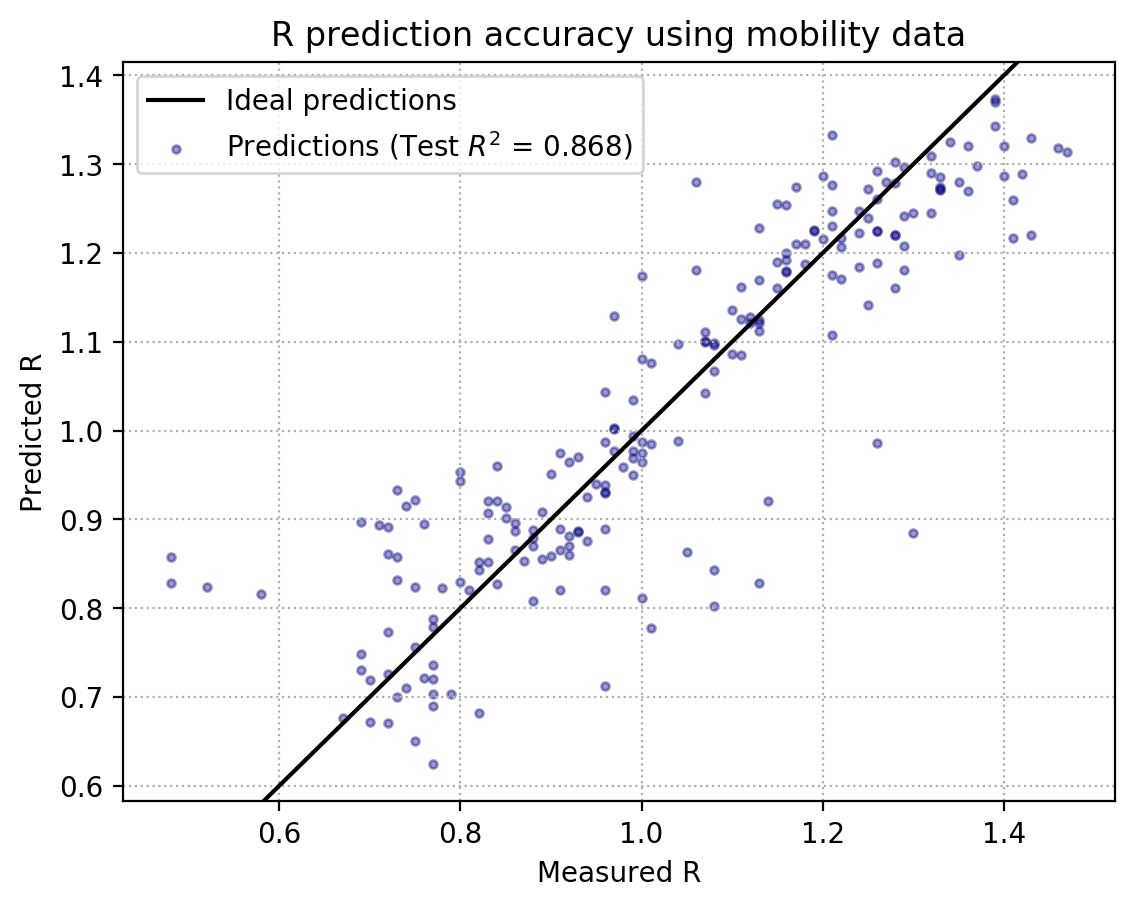
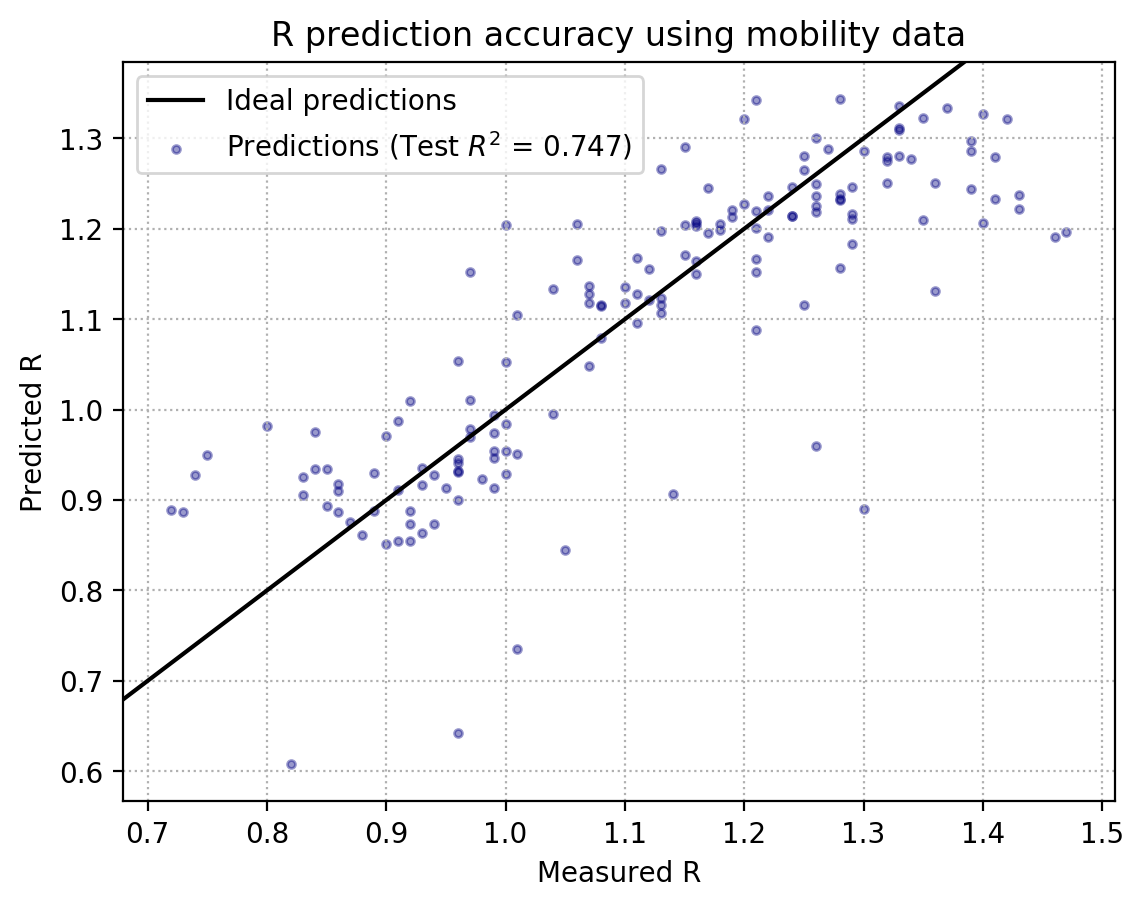
Turns out that the questionnaire response data does not improve the predictions of R by one bit. Leaving the code for loading the data in there for now, but it is not used.

diff --git a/model_coronavirus_supression.py b/model_coronavirus_supression.py
@@ -896,6 +896,12 @@ def load_weather_data(smooth = False):
 	return df_weather
 
 def load_behaviour_data(startdate, enddate):
+	"""
+	Load data on questionnaires about how much people follow the COVID-19 rules.
+	https://data.rivm.nl/geonetwork/srv/dut/catalog.search#/metadata/8a72d78a-fcf8-4882-b0ab-cd594961a267?tab=relations
+
+	startdate, enddate as np.datetime64.
+	"""
 	behaviour_url = 'https://data.rivm.nl/covid-19/COVID-19_gedrag.csv'
 	behaviour_fname = 'COVID-19_gedrag.csv'
 
@@ -965,18 +971,18 @@ def load_behaviour_data(startdate, enddate):
 	### now we need to perform imputation, filling in the blanks before the
 	### survey starts
 	#extrapolate at the start
-	if np.datetime64(startdate) < np.datetime64(df_behaviour_incols.index[0]):
+	if startdate < np.datetime64(df_behaviour_incols.index[0]):
 		df_sub = pd.DataFrame()
 		for col in df_behaviour_incols.columns:
-			df_sub[col] = extrapolate_dataframe(df_behaviour_incols[[col]], col, np.datetime64(startdate), base_period = 7)[col]
+			df_sub[col] = extrapolate_dataframe(df_behaviour_incols[[col]], col, startdate, base_period = 7)[col]
 
 		df_behaviour_incols = df_sub
 
 	#extrapolate at the end
-	if np.datetime64(enddate) > np.datetime64(df_behaviour_incols.index[0]):
+	if enddate > np.datetime64(df_behaviour_incols.index[0]):
 		df_sub = pd.DataFrame()
 		for col in df_behaviour_incols.columns:
-			df_sub[col] = extrapolate_dataframe(df_behaviour_incols[[col]], col, np.datetime64(enddate), base_period = 7)[col]
+			df_sub[col] = extrapolate_dataframe(df_behaviour_incols[[col]], col, enddate, base_period = 7)[col]
 
 		df_behaviour_incols = df_sub
 
@@ -1641,6 +1647,7 @@ def estimate_recent_R(enddate_train = '2020-10-25'):
 	"""
 	print(f'WARNING: end date for R training set is {enddate_train}')
 
+	startdate_train = '2020-06-01'
 	startdate_pred = '2020-07-01'
 
 	df_prevalence, df_R = load_prevalence_R0_data()
@@ -1662,8 +1669,15 @@ def estimate_recent_R(enddate_train = '2020-10-25'):
 	df_mob_R = df_mob_R.join(df_response, how = 'inner')
 	df_mob_R = df_mob_R.join(df_weather, how = 'inner')
 
+	#only now load the behaviour data as we have to extrapolate this anyhow
+	#and need to get the extrapolation edges
+	# df_behaviour = load_behaviour_data(np.datetime64(startdate_train), np.datetime64(df_mob_R.index[-1]))
+	# print(df_behaviour.columns)
+	# #and also merge this
+	# df_mob_R = df_mob_R.join(df_behaviour, how = 'inner')
+
 	#select date range
-	mask = (df_mob_R.index > '2020-04-01') & (df_mob_R.index <= enddate_train)
+	mask = (df_mob_R.index > startdate_train) & (df_mob_R.index <= enddate_train)
 	df_train = df_mob_R.loc[mask]
 	df_pred = df_mob_R.loc[df_mob_R.index > startdate_pred]
 
@@ -1734,7 +1748,7 @@ def estimate_recent_R(enddate_train = '2020-10-25'):
 			'transit_smooth',
 			'TAvg',
 			'Rad'
-		] + list(df_response.columns)
+		]
 		#get the multiple parameters into a single array
 		X = dataframes_to_NDarray(df_train, best_correlating_metrics)
 		Y = np.array(df_train['Rt_avg'])
@@ -2086,9 +2100,7 @@ def main():
 	# plot_individual_data()
 	# plot_cluster_change()
 
-	load_behaviour_data('2020-07-01', '2020-12-11')
-
-	# estimate_recent_R(enddate_train = '2020-11-12')
+	estimate_recent_R(enddate_train = '2020-11-12')
 	# estimate_recent_prevalence(enddate_train = '2020-11-17')
 
 if __name__ == '__main__':

diff --git a/README.md b/README.md
@@ -1,7 +1,8 @@
 ## Modelling the outcome of Dutch government coronavirus response
 
 ### TODO:
-- ...
+- Add enquete data to predictor input: [RIVM](https://data.rivm.nl/geonetwork/srv/dut/catalog.search#/metadata/8a72d78a-fcf8-4882-b0ab-cd594961a267)
+- Check all predictor input variables for covariance with R and prevalence
 
 ### Data sources
 
@@ -11,6 +12,7 @@
 - Each case of positive test, with first day of illness, age etc: [link](https://data.rivm.nl/geonetwork/srv/dut/catalog.search#/metadata/2c4357c8-76e4-4662-9574-1deb8a73f724)
 - Reproductive number: [link](https://data.rivm.nl/covid-19/COVID-19_reproductiegetal.json)
 - More raw data: [link](https://coronadashboard.rijksoverheid.nl/verantwoording)
+- Behaviour studies: [link](https://data.rivm.nl/geonetwork/srv/dut/catalog.search#/metadata/8a72d78a-fcf8-4882-b0ab-cd594961a267?tab=relations)
 
 Weekly update [link](https://www.rivm.nl/coronavirus-covid-19/actueel) with:
 - Number of tests performed per week
